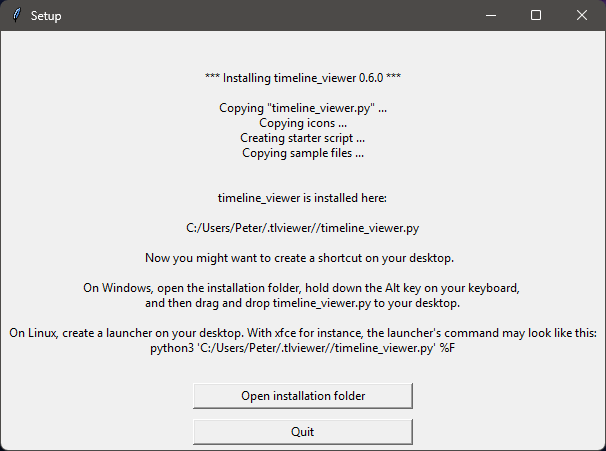
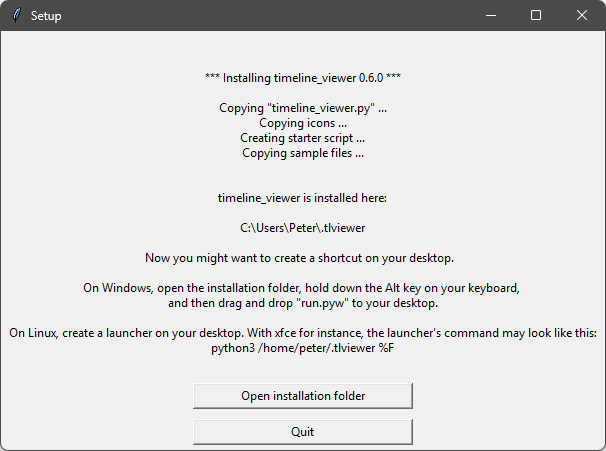
Rebuilt version 0.6.0 with fixed setup message.

diff --git a/src/setuplib.py b/src/setuplib.py
@@ -34,16 +34,16 @@ SUCCESS_MESSAGE = '''
 
 $Appname is installed here:
 
-$Apppath'''
+$DisplayDir'''
 
 SHORTCUT_MESSAGE = '''
 Now you might want to create a shortcut on your desktop.  
 
 On Windows, open the installation folder, hold down the Alt key on your keyboard, 
-and then drag and drop $Appname.py to your desktop.
+and then drag and drop "run.pyw" to your desktop.
 
 On Linux, create a launcher on your desktop. With xfce for instance, the launcher's command may look like this:
-python3 '$Apppath' %F
+python3 /home/peter/.tlviewer %F
 '''
 
 START_UP_CODE = f'''import logging
@@ -157,9 +157,13 @@ def install(novxPath, zipped):
 
     #--- Create a start-up script.
     output('Creating starter script ...')
-    mapping = {'Appname': APPNAME, 'Apppath': f'{installDir}/{START_UP_SCRIPT}'}
-    mapping['InstallDir'] = installDir
-    mapping['Release'] = VERSION
+    mapping = {
+        'Appname': APPNAME,
+        'Apppath': f'{installDir}/{START_UP_SCRIPT}',
+        'InstallDir': installDir,
+        'Release': VERSION,
+        'DisplayDir': os.path.normpath(f'{installDir}'),
+    }
     if platform.system() == 'Windows':
         shebang = ''
     else:
@@ -179,7 +183,6 @@ def install(novxPath, zipped):
     copy_tree('sample', installDir)
 
     # Display a success message.
-    mapping = {'Appname': APPNAME, 'Apppath': f'{installDir}/{APP}'}
     output(Template(SUCCESS_MESSAGE).safe_substitute(mapping))
 
     # Ask for shortcut creation.
@@ -203,7 +206,7 @@ def main(zipped=True):
 
     # Run the installation.
     homePath = str(Path.home()).replace('\\', '/')
-    novxlibPath = f'{homePath}/{INSTALL_DIR}/'
+    novxlibPath = f'{homePath}/{INSTALL_DIR}'
     try:
         install(novxlibPath, zipped)
     except Exception as ex:
